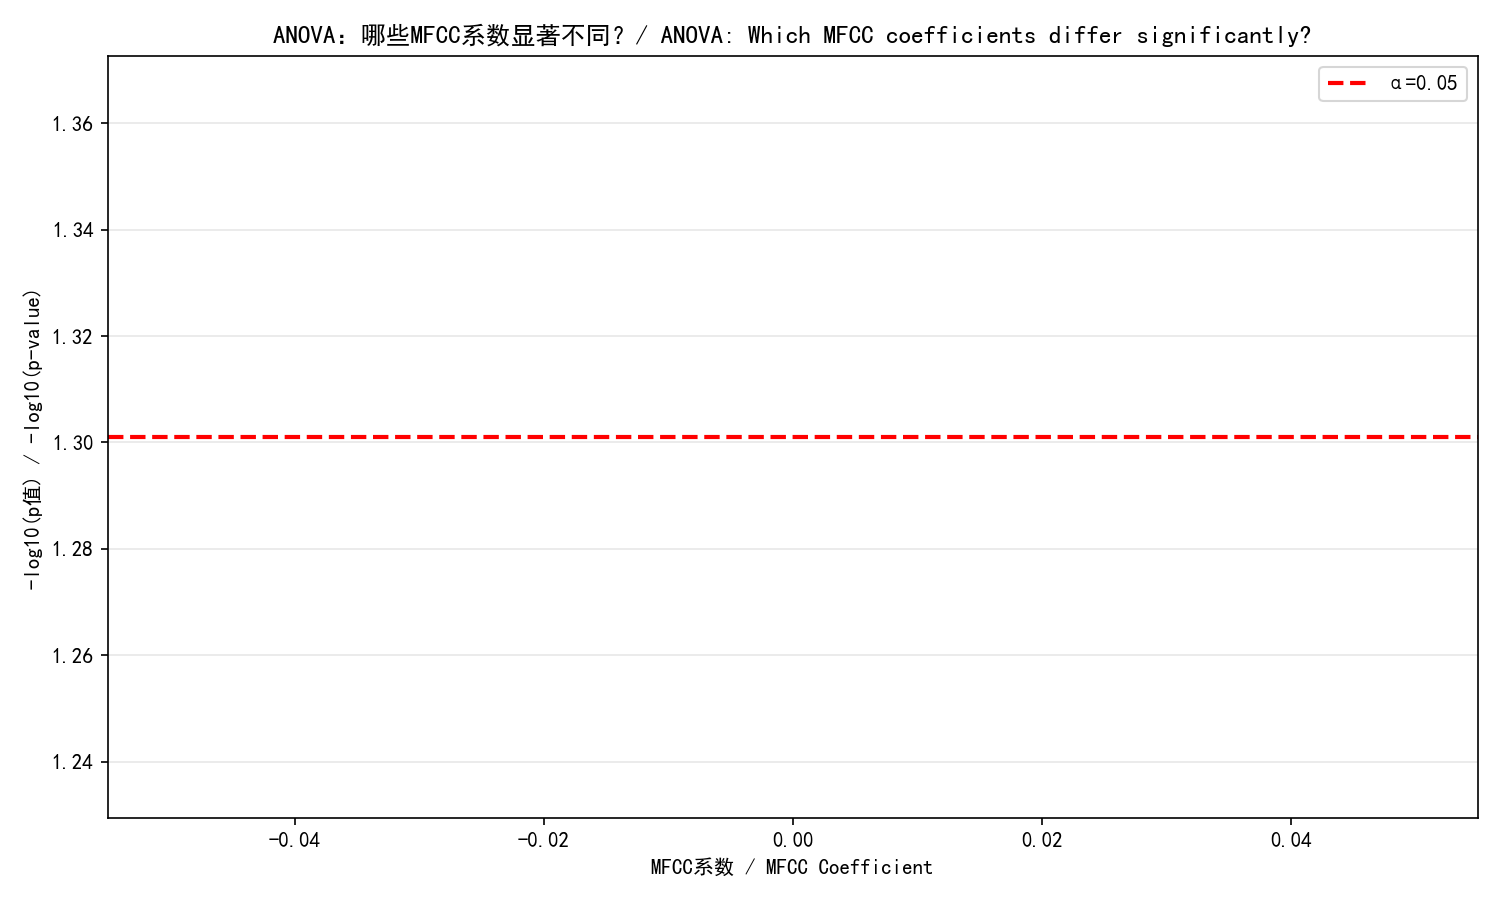
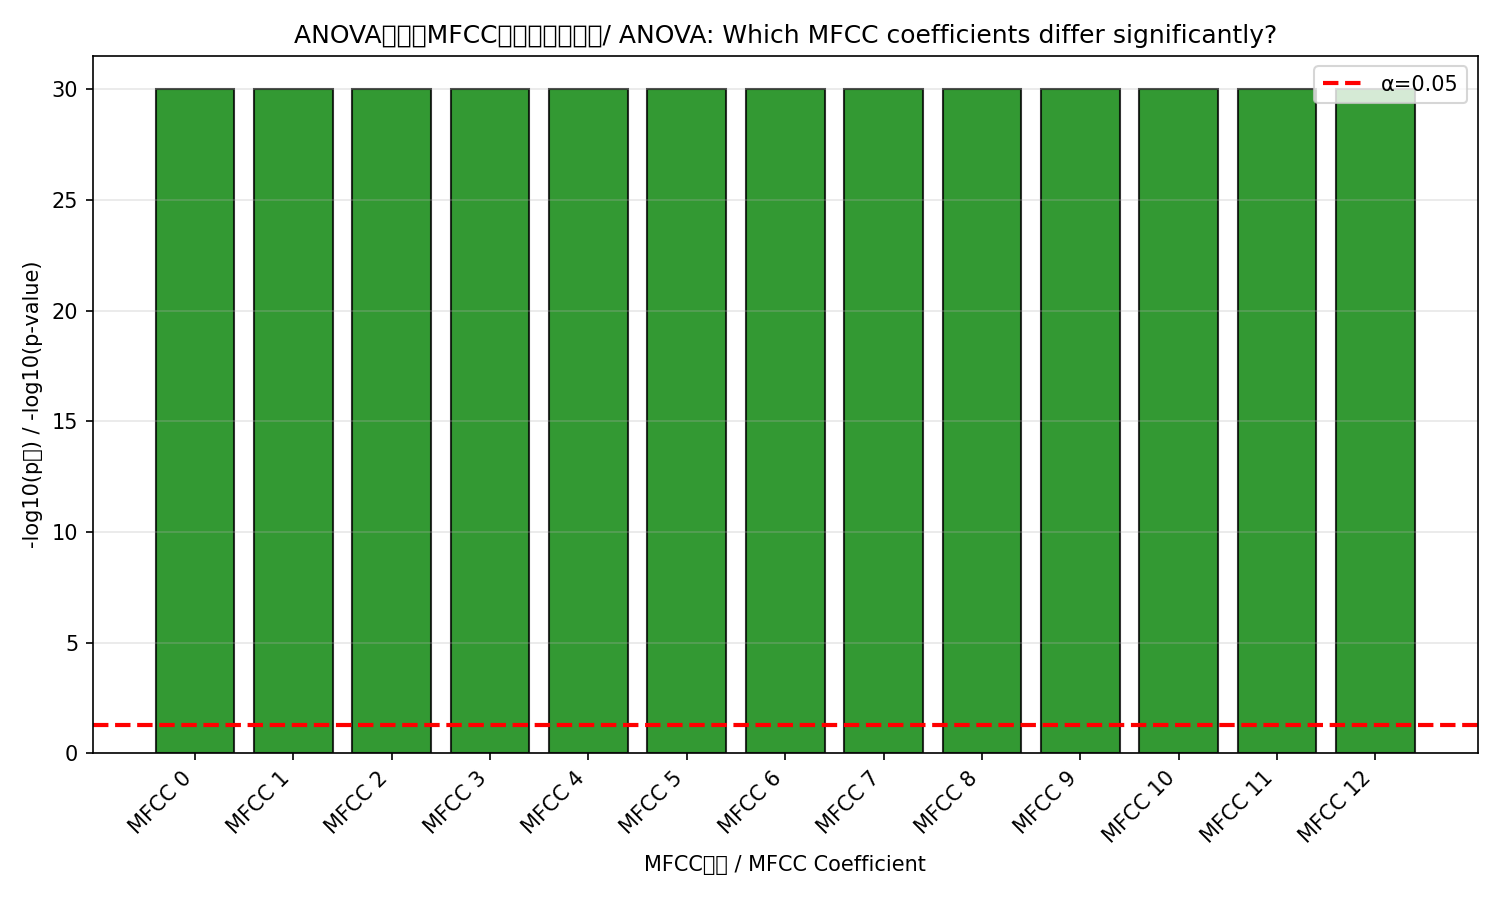
Fix ANOVA plot (inf p-values) and update README recording types
enhanced_pipeline.py: cap -log10(p) at 30 to handle near-zero p-values
that caused matplotlib to render invisible bars (inf height). Also add
explicit x-tick labels (MFCC 0..12) for readability.

README: note Lang Lang recording is a live stage performance.

diff --git a/enhanced_pipeline.py b/enhanced_pipeline.py
@@ -330,10 +330,12 @@ print("OK")
 print("  Generating ANOVA significance plot...", end=" ")
 fig, ax = plt.subplots(figsize=(10, 6))
 p_values = [r['p_value'] for r in anova_results]
-p_log = [-np.log10(p + 1e-300) for p in p_values]
+p_log = [min(float(-np.log10(max(p, 1e-30))), 30) for p in p_values]
 colors = ['green' if p < 0.05 else 'gray' for p in p_values]
 ax.bar(range(13), p_log, color=colors, alpha=0.8, edgecolor='black')
 ax.axhline(-np.log10(0.05), color='red', linestyle='--', linewidth=2, label='α=0.05')
+ax.set_xticks(range(13))
+ax.set_xticklabels([f'MFCC {i}' for i in range(13)], rotation=45, ha='right')
 ax.set_xlabel('MFCC系数 / MFCC Coefficient')
 ax.set_ylabel('-log10(p值) / -log10(p-value)')
 ax.set_title('ANOVA：哪些MFCC系数显著不同？/ ANOVA: Which MFCC coefficients differ significantly?')

diff --git a/README.md b/README.md
@@ -33,7 +33,7 @@ See `audio_normalization.py` for the normalization pipeline. Normalized audio fi
 ### Preprocessing Results
 | Pianist | Recording Type | Duration | Notes |
 |---------|---------------|----------|-------|
-| Lang Lang | Studio | 127.4s | — |
+| Lang Lang | Live stage performance | 127.4s | Starts immediately at first note |
 | Li Yundi | Studio | 187.2s | — |
 | Shen Wenyu | Home recording | 201.9s | 7.4s pre-music noise trimmed |
 
